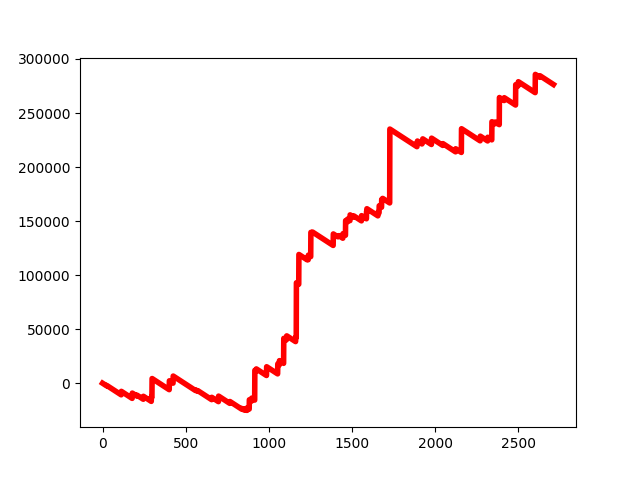
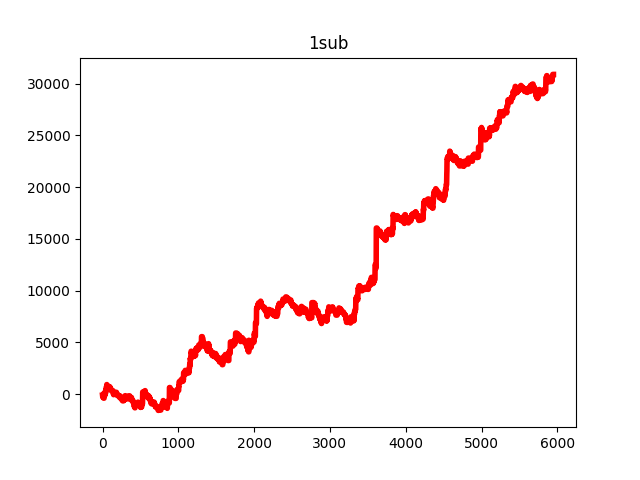
7/29_ドローダウンの実装

diff --git a/myproject/AI_learn/recovery_rate.py b/myproject/AI_learn/recovery_rate.py
@@ -49,6 +49,7 @@ def recovery_rate(y_test, y_pred, y_odds, x_train):
     one_win_recovery_plt= []
     placing_bets_plt = []
     Extended_duplication_plt = []
+    money = 100000
     #[三連単,三連複,二連単,二連複,拡張,単勝,複勝,]
     for (hit, odd) in zip(hit_resul, y_odds):
         Trifecta_recovery_rate -= 100 
@@ -157,41 +158,17 @@ def recovery_rate(y_test, y_pred, y_odds, x_train):
                 
                     
                 if  hit[6] == 1:#複勝
-                    count6 += 1
                     placing_bets_recovery_rate += o[1]
-                    if o[1] < 200:
-                        hit_list[5][0] += 1
-                    elif o[1] < 400:
-                        hit_list[5][1] += 1
-                    elif o[1] < 600:
-                        hit_list[5][2] += 1
-                    elif o[1] < 1000:
-                        hit_list[5][3] += 1
-                    else:
-                        hit_list[5][4] += 1
-                    if (o[1] <=110):
-                        hit_list[5][5] += 1
-                    
+                    count6 += 1
                 if hit[6] == 2:
                     if len(o) == 2:
                         placing_bets_recovery_rate += 100
                         continue
-                    count6 += 1
                     placing_bets_recovery_rate += o[2]
-                    if o[1] < 200:
-                        hit_list[5][0] += 1
-                    elif o[1] < 400:
-                        hit_list[5][1] += 1
-                    elif o[1] < 600:
-                        hit_list[5][2] += 1
-                    elif o[1] < 1000:
-                        hit_list[5][3] += 1
-                    else:
-                        hit_list[5][4] += 1
-                    if (o[2] < 120):
-                        hit_list[5][5] += 1
+                    count6 += 1
                 
-            
+        if money > placing_bets_recovery_rate:
+            money = placing_bets_recovery_rate
         Trifecta_plt.append(Trifecta_recovery_rate)
         triplet_plt.append(triplet_recovery_rate)
         Double_singl_plt.append(Double_single_recovery_rate)
@@ -231,6 +208,7 @@ def recovery_rate(y_test, y_pred, y_odds, x_train):
     print('単勝の利益 = {}円'.format(one_win_recovery_rate))
     print('複勝の利益 = {}円'.format(placing_bets_recovery_rate))
     print('拡幅の利益 = {}円'.format(Extended_duplication_rate))
+    print("ドローダウン: {}円".format(money))
     print('*' *100)
     print('学習レースデータ: {}件, テストレースデータ: {}件'.format(len(x_train)/6, len(y_test)/6))
     print(hit_list)
@@ -238,8 +216,8 @@ def recovery_rate(y_test, y_pred, y_odds, x_train):
     height = np.array(placing_bets_plt)
     plt.plot(left, height)
     plt.plot(left, height, linewidth=4, color="red")
-    plt.title('3win', loc='center')
-    #plt.show()
+    plt.title('1sub', loc='center')
+    plt.show()
 
 
     

diff --git a/myproject/AI_learn/predicting.py b/myproject/AI_learn/predicting.py
@@ -6,7 +6,7 @@ import pickle
 
 def predict():
   print('predictがStart!')
-  text = 3
+  text = 2
   text = str(text)
   x_train_text = "../../binaryfile/x_train_" + text.zfill(2) + ".binaryfile"
   y_train_text = "../../binaryfile/y_train_" + text.zfill(2) + ".binaryfile"
